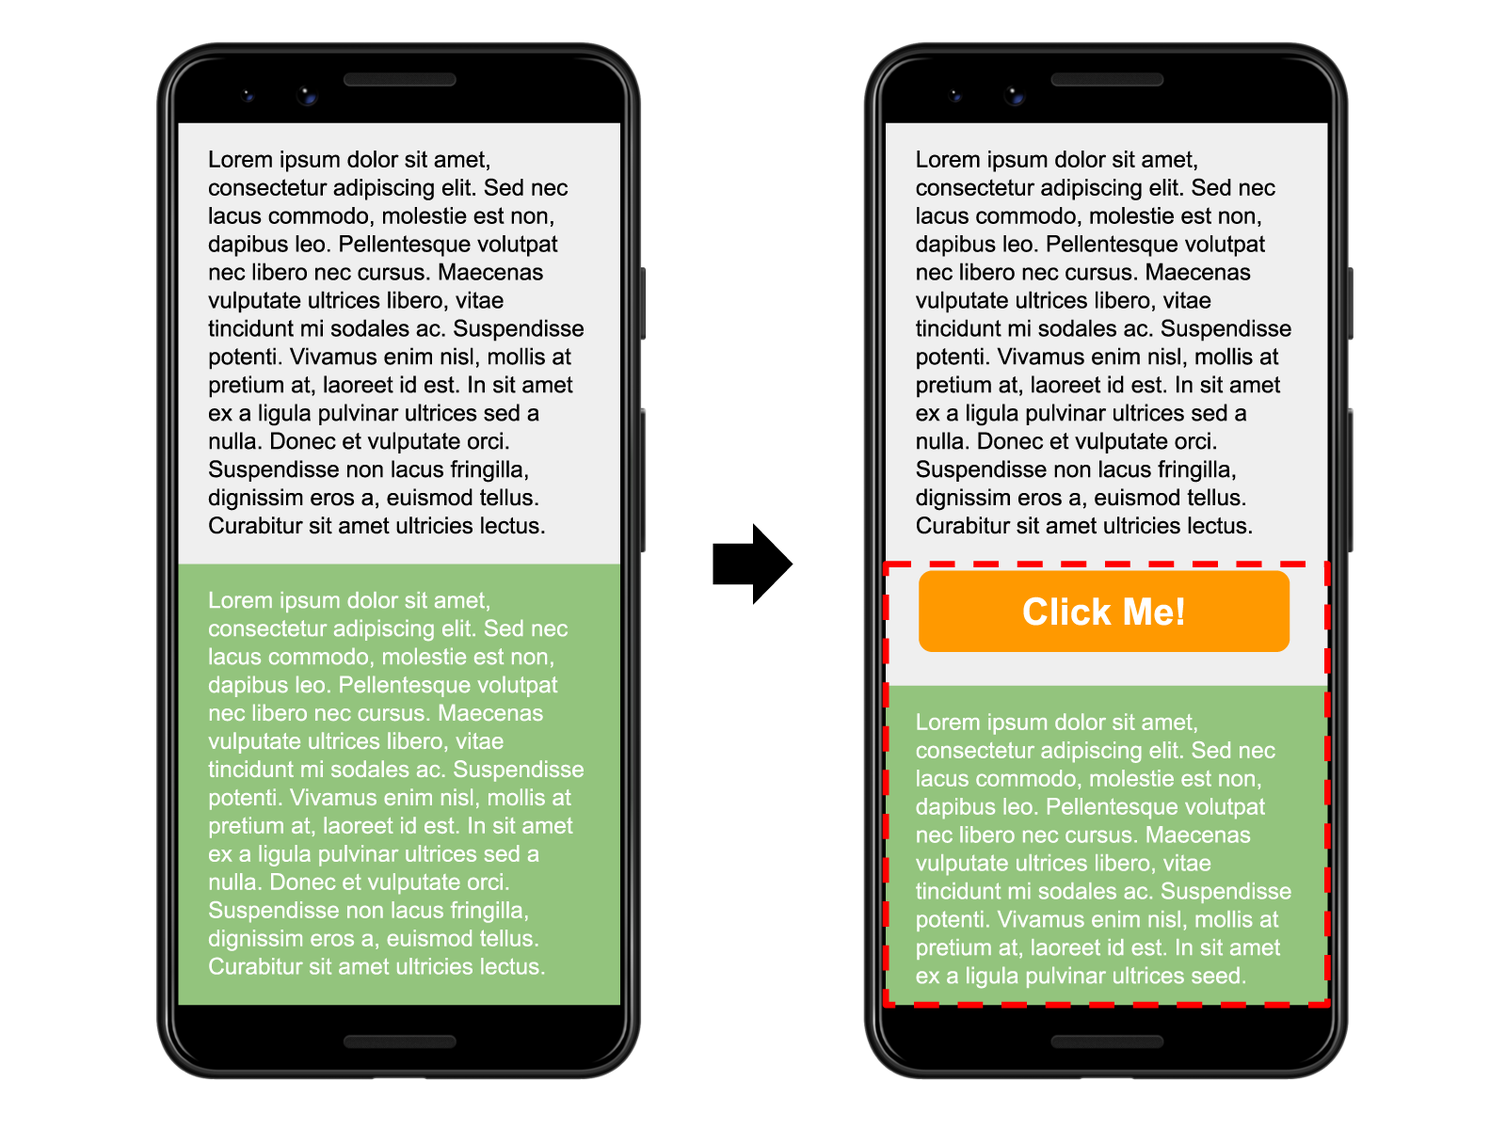
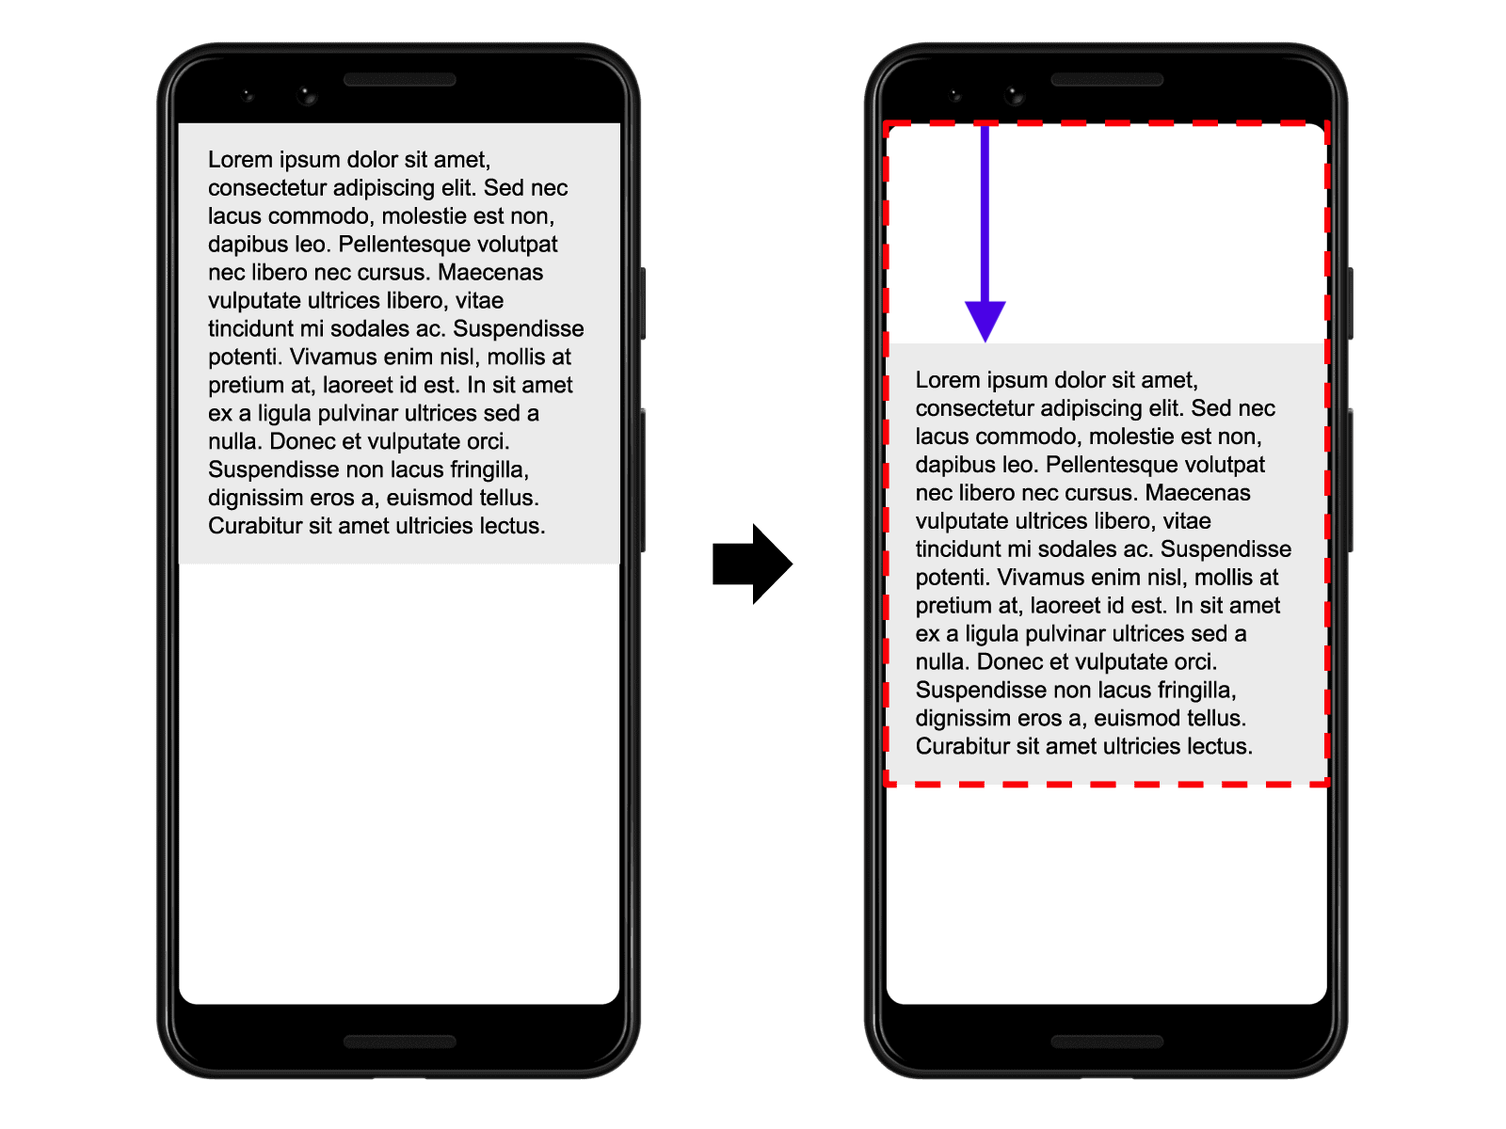
Layout Instability API update (#1504)

Changed region(s): [[0.5625, 0.0925, 0.9062, 0.8942], [0.0938, 0.4933, 0.4375, 0.8942], [0.875, 0.3392, 0.9062, 0.4008]]

diff --git a/src/site/content/en/blog/layout-instability-api/index.md b/src/site/content/en/blog/layout-instability-api/index.md
@@ -3,8 +3,9 @@ title: The Layout Instability API
 subhead: Detect unexpected layout shifts in JavaScript.
 authors:
   - philipwalton
+  - mihajlija
 date: 2019-06-11
-updated: 2019-08-29
+updated: 2019-09-16
 hero: hero.jpg
 # You can adjust the position of your hero image with this property.
 # Values: top | bottom | center (default)
@@ -19,15 +20,9 @@ tags:
   - origin-trials
 ---
 
-Have you ever been reading an article online when something suddenly changes on
-the page? Without warning, the text moves, and you've lost your place.
+Have you ever been reading an article online when something suddenly changes on the page? Without warning, the text moves, and you've lost your place. Or even worse: you're about to tap a link or a button, but in the instant before your finger lands—BOOM—the link moves, and you end up clicking something else!
 
-Or even worse: you're about to tap a link or a button, but in the instant
-before your finger lands&mdash;**BOOM**&mdash;the link moves, and you end up
-clicking something else!
-
-Most of the time these kinds of experiences are just a mild annoyance or
-frustration. But in some cases, they can actually cause real damage or harm.
+Most of the time these kinds of experiences are just annoying, but in some cases, they can cause real damage.
 
 <figure class="w-figure w-figure--center">
   <video autoplay controls loop muted
@@ -52,105 +47,88 @@ existing content. The culprit might be an image or video with unknown
 dimensions, a font that renders larger or smaller than its fallback, or a
 third-party ad or widget that dynamically resizes itself.
 
-What makes this issue even more problematic is that how a site functions in
-development is often quite different from how users experience it in
-production: personalized or third-party content often doesn't behave the same
-in development as it does in production, test images are often already in the
-developer's browser cache, and API calls that run locally are often so fast
-that the delay isn't noticeable.
+What makes this issue even more problematic is that how a site functions in development is often quite different from how users experience it. Personalized or third-party content often doesn't behave the same in development as it does in production, test images are often already in the developer's browser cache, and API calls that run locally are often so fast that the delay isn't noticeable.
 
-The first step toward properly solving this problem is to give developers the
-tools to measure it and understand how often it's occurring for real users. The
-[Layout Instability API](https://github.com/WICG/layout-instability), currently
-being incubated in the [WICG](https://www.w3.org/community/wicg/), aims to
-address this.
+The first step toward properly solving this problem is to give developers the tools to measure it and understand how often it's occurring for real users. They can then identify the causes and improve the user experience. The [Layout Instability API](https://github.com/WICG/layout-instability), currently being incubated in the [WICG](https://www.w3.org/community/wicg/), aims to address this.
 
 ## How is layout instability determined?
 
-Layout Instability is determined by calculating a _layout shift_ score every
-time the browser renders a new frame. Developers and analytics providers can
-then monitor these scores in the wild, identify the culprits, and improve the
-experience for their users.
+An element is labeled as unstable if it is visible in the viewport and its start position (for example, its top and left position in the default [writing mode](https://developer.mozilla.org/en-US/docs/Web/CSS/writing-mode)) changes between two frames.
+
+Layout shifts only occur when *existing elements* change their *start position*. If a new element is added to the DOM or an existing element changes size, it doesn't count as a layout shift—as long as the change doesn't cause other visible elements to change their start position.
+
+Layout instability is determined by calculating a _layout shift_ score every time the browser renders a new frame. A frame that's rendered without any unexpected layout shifts has a layout shift score of 0.
 
 ### Layout shift defined
 
-For each element that's visible in the viewport, if the element's block-start
-and inline-start positions (e.g., its top and left position in the default
-[writing mode](https://developer.mozilla.org/en-US/docs/Web/CSS/writing-mode))
-relative to its [containing
-element](https://www.w3.org/TR/CSS2/visudet.html#containing-block-details) has
-changed between the frame currently being rendered and the frame that was
-previously rendered, the element is identified as unstable.
+To calculate the layout shift score, the browser looks at the viewport size and the movement of unstable elements in the viewport between two rendered frames. The layout shift score is a product of two measures of that movement: the impact fraction and the distance fraction.
 
-The union of the visible areas of all unstable elements for the previous frame
-_and_ the current frame&mdash;as a fraction of the total area of the
-viewport&mdash;is the **layout shift score** for the current frame.
+`impact fraction x distance fraction = layout shift score`
 
-Here are a few examples of how the layout shift score is calculated:
+The [impact fraction](https://github.com/WICG/layout-instability#Impact-Fraction) measures how unstable elements impact the viewport area between two frames. 
 
-![Layout shift example with one unstable element](layout-shift-1.png)
+The union of the visible areas of all unstable elements for the previous frame *and* the current frame—as a fraction of the total area of the viewport—is the impact fraction for the current frame.
+
+![Impact fraction example with one unstable element](layout-shift-1.png)
 
 In the image above there's an element that takes up half of the viewport in one
 frame. Then, in the next frame, the element shifts down by 25% of the viewport
 height. The red, dotted rectangle indicates the union of the element's visible
 area in both frames, which, in this case, is 75% of the total viewport, so its
-layout shift score is 0.75.
+impact fraction is 0.75.
+
+The other part of the layout shift score equation measures the distance that unstable elements have moved on the horizontal or vertical axis (whichever is greater), relative to the viewport. The [distance fraction](https://github.com/WICG/layout-instability#Distance-Fraction) is the greatest distance any unstable element has moved in the frame. 
+
+![Distance fraction example with one unstable element](layout-shift-2.png)
+
+In the example above, the unstable element has moved down by 25% of the viewport height, which makes the distance fraction 0.25.
+
+The layout shift score in this example is 0.75 x 0.25 = 0.1875.
+
+{% Aside %}
+Initially, the layout shift score was calculated based only on impact fraction. The distance fraction is introduced to avoid overly penalizing cases where large elements shift by small distances.
+{% endAside %}
 
 The next example illustrates how adding content to an existing element affects
 the layout shift score:
 
 ![Layout shift example with stable and unstable elements and viewport
-clipping](layout-shift-2.png)
+clipping](layout-shift-3.png)
 
-Here the "Click Me!" button is appended to the bottom of the gray box with
-black text, which pushes the green box with white text down (and partially out
-of the viewport).
+The "Click Me!" button is appended to the bottom of the gray box with black text, which pushes the green box with white text down (and partially out of the viewport).
 
-In this example, the gray box changes size, but its start position does not
-change so it's not an unstable element. The start position of the green box,
-however, does change, but since it's been moved partially out of the viewport,
-the invisible area is not considered when calculating the layout shift score.
-The union of the visible areas for the green box in both frames is the same as
-the area of the green box in the first frame, which is 50%, and its layout
-shift score is therefore 0.5 (as illustrated by the red, dotted rectangle).
+In this example, the gray box changes size, but its start position does not change so it's not an unstable element. 
+
+The "Click Me!" button was not previously in the DOM, so its start position doesn't change either.
+
+The start position of the green box, however, does change, but since it's been moved partially out of the viewport, the invisible area is not considered when calculating the impact fraction. The union of the visible areas for the green box in both frames (illustrated by the red, dotted rectangle) is the same as the area of the green box in the first frame—50% of the viewport. The impact fraction is 0.5.
+
+The distance fraction is illustrated with the purple arrow. The green box has moved down by about 14% of the viewport so the distance fraction is 0.14. 
+
+The layout shift score is 0.5 x 0.14 = 0.07.
 
 This last example illustrates multiple unstable elements:
 
 ![Layout shift example with multiple stable and unstable
-elements](layout-shift-3.png)
+elements](layout-shift-4.png)
 
-In the first frame above we have the initial results of an API request for
-animals, sorted in alphabetical order. In the second frame we have some more
-results that get added to the sorted list.
+In the first frame above there are four results of an API request for animals, sorted in alphabetical order. In the second frame, more results are added to the sorted list.
 
-The first item in the list ("Cat") does not change its start position between
-frames, so it's stable. Similarly, the new items added to the list were not
-previously in the DOM, so their start positions don't change either. But the
-items labelled "Dog", "Horse", and "Zebra" all shift their start positions, so
-they're unstable elements.
+The first item in the list ("Cat") does not change its start position between frames, so it's stable. Similarly, the new items added to the list were not previously in the DOM, so their start positions don't change either. But the items labelled "Dog", "Horse", and "Zebra" all shift their start positions, making them unstable elements.
 
-Again, the red, dotted rectangles represent the union of these three unstable
-elements' before and after areas, which in this case represents around 38% of
-the viewport's area (a layout shift score of 0.38).
+Again, the red, dotted rectangles represent the union of these three unstable elements' before and after areas, which in this case is around 38% of the viewport's area (impact fraction of 0.38).
 
-A key point that's hopefully clear from these examples is that layout shifts
-only occur when _existing_ elements change their _start position_. If a new
-element is added to the DOM or an existing element changes size, it doesn't
-count as a layout shift&mdash;**as long as the change doesn't cause other visible
-elements to change their start position**.
+The arrows represent the distances that unstable elements have moved from their starting positions. The "Zebra" element, represented by the blue arrow, has moved the most, by about 30% of the viewport height. That makes the distance fraction in this example 0.3.
 
-### Expected vs unexpected layout shifts
+The layout shift score is 0.38 x 0.3 = 0.1172.
 
-Not all layout shifts are bad. In fact, many dynamic web applications will
-frequently change the start position of elements on the page.
+### Expected vs. unexpected layout shifts
+
+Not all layout shifts are bad. In fact, many dynamic web applications frequently change the start position of elements on the page.
 
 #### User-initiated layout shifts
 
-A layout shift is only bad if the user isn't expecting it. On the other hand,
-layout shifts that occur in response to user interactions (e.g., clicking a
-link, pressing a button, typing in a search box, etc.) are generally fine, as
-long as the shift occurs close enough to the interaction that the relationship
-is clear to the user.
+A layout shift is only bad if the user isn't expecting it. On the other hand, layout shifts that occur in response to user interactions (clicking a link, pressing a button, typing in a search box and similar) are generally fine, as long as the shift occurs close enough to the interaction that the relationship is clear to the user.
 
 For example, if a user interaction triggers a network request that may take a
 while to complete, it's best to create some space right away and show a loading
@@ -161,68 +139,34 @@ waiting&mdash;something that could move out from under them.
 
 #### Animations and transitions
 
-Animations and transitions, when done well, are a great way to update content
-on the page without surprising the user. Content that shifts abruptly and
-unexpectedly on the page almost always creates a bad user experience. But
-content that moves gradually and naturally from one position to the next can
-often help the user better understand what's going on, and guide them between
-state changes.
+Animations and transitions, when done well, are a great way to update content on the page without surprising the user. Content that shifts abruptly and unexpectedly on the page almost always creates a bad user experience. But content that moves gradually and naturally from one position to the next can often help the user better understand what's going on, and guide them between state changes.
 
-To ensure that effective uses of animations and transitions do not produce
-negative layout shift scores in the Layout Instability API, elements whose
-start position has changed by less than three pixels since the previous frame
-are not considered unstable elements.
+CSS [`transform`](https://developer.mozilla.org/en-US/docs/Web/CSS/transform) property allows you to animate elements without triggering layout changes:
+
+* Instead of changing `height` and `width` properties, use `transform: scale()`. 
+
+* To move elements around, avoid changing `top`, `right`, `bottom`, or `left` properties and use `transform: translate()` instead.
 
 ### A cumulative layout shift score
 
-Layout shift scores are calculated per-frame, and they are reported regardless
-of whether the shift was triggered as a result of user input.
+Layout shift scores are calculated per-frame, and they are reported regardless of whether the shift was triggered as a result of user input. But users can experience layout instability throughout their entire browser session, and as mentioned above, not all layout shifts are perceived negatively.
 
-But users can experience layout instability throughout their entire browser
-session, and as I mentioned above, not all layout shifts are perceived
-negatively.
+The cumulative layout shift (CLS) score can be determined by calculating the sum of all "unexpected" layout shift scores from page load until the page's [lifecycle state](https://developers.google.com/web/updates/2018/07/page-lifecycle-api) changes to hidden. Chrome has heuristics to determine which layout shifts are "unexpected" and only those should count towards the cumulative layout shift score. For example, shifts that occur within 500 milliseconds of a discrete user interaction (for example, clicks, taps, and key presses) shouldn't count towards the CLS. 
 
-The cumulative layout shift (CLS) score is determined by calculating the sum of
-all unexpected layout shift scores from page load until the page's [lifecycle
-state](https://developers.google.com/web/updates/2018/07/page-lifecycle-api)
-changes to hidden. In the current Chrome implementation, "unexpected layout
-shifts" are those that don't occur within 500 milliseconds of a discrete user
-interaction (i.e., click, taps, and key presses, but not scrolls or mouse
-moves)
-
-A page that has no unexpected layout shifts will have a cumulative layout shift
-score of 0. Most typical content sites and web applications should strive for a
-score of 0 to provide the best experience for their users.
-
-In addition, the cumulative layout shift score has been added as an
-experimental metric in the [Chrome User Experience
-Report](https://developers.google.com/web/tools/chrome-user-experience-report/)
-(CrUX), a dataset that captures how real-world Chrome users experience popular
-destinations on the web. With the addition of CLS as of the May 2019 release,
-developers can get a better understanding of how users experience layout
-instability on their sites, on their competitors' sites, and on the web as a
-whole.
+A page that has no unexpected layout shifts will have a cumulative layout shift score of 0. Most typical content sites and web applications should strive for a score of 0 to provide the best experience for their users.
 
 {% Aside %}
-  **Important:** while most sites should strive for a CLS score of 0, it's
-  certainly possible that some sites employ layout shifts deliberately  (for
-  example, in multimedia presentations, progressive visualisations, slideshows,
-  etc.).
-
-  This is perfectly fine. CLS scores are intended to help developers who may
-  not be aware of the problems caused by unexpected layout shifts; they're not
-  intended to suggest that sites that deliberately shift the layout are
-  necessarily problematic.
+Sites with, for example, multimedia presentations, progressive visualisations, or slideshows can have higher CLS scores and that is perfectly fine. CLS scores are intended to help developers who may not be aware of the problems that are causing unexpected layout shifts; they're not intended to suggest that sites that deliberately shift the layout are necessarily problematic. 
 {% endAside %}
 
 ## How to use the Layout Instability API
 
 The Layout Instability API is available in Chrome 74+ with the experimental web
 platform features flag enabled
-(`chrome://flags/#enable-experimental-web-platform-features`) or by through the
+(`chrome://flags/#enable-experimental-web-platform-features`) or through the
 [Layout Instability Origin
 Trial](https://developers.chrome.com/origintrials/#/view_trial/1215971899390033921),
-which will be available until Sept. 3, 2019.
+which is be available until Sept. 3, 2019.
 
 Similar to other performance APIs, Layout Instability can be observed via the
 `PerformanceObserver` interface, where you can subscribe to entries of type
@@ -241,10 +185,7 @@ observer.observe({type: 'layout-shift', buffered: true});
 ```
 
 {% Aside %}
-  **Note:** The
-  [`buffered`](https://w3c.github.io/performance-timeline/#dom-performanceobserverinit-buffered)
-  flag in the above example (supported in Chrome 77+) gives you access to entries
-  that may have occurred prior to creating the `PerformanceObserver`.
+The [`buffered`](https://w3c.github.io/performance-timeline/#dom-performanceobserverinit-buffered) flag in the above example (supported in Chrome 77+) gives you access to entries that may have occurred prior to creating the `PerformanceObserver`.
 {% endAside %}
 
 {% Aside 'caution' %}
@@ -258,11 +199,7 @@ observer.observe({type: 'layout-shift', buffered: true});
   works in Chrome 74+.
 {% endAside %}
 
-If you want to calculate the cumulative layout shift score for your pages and
-track them in your analytics back end, you can declare a variable that stores
-the current cumulative layout shift score, and then increment it any time a new
-layout shift is detected. You'll typically want to record scores from the
-initial page load until the page's lifecycle state changes to hidden:
+To calculate the cumulative layout shift score for your pages and track them in your analytics back end, declare a variable that stores the current cumulative layout shift score, and then increment it any time a new layout shift is detected. For best results, record scores from the initial page load until the page's lifecycle state changes to `hidden`:
 
 ```js
 // Stores the current layout shift score for the page.
@@ -294,20 +231,21 @@ document.addEventListener('visibilitychange', () => {
   }
 });
 ```
+{% Aside %}
+The cumulative layout shift score has also been added as an experimental metric in the [Chrome User Experience Report](https://developers.google.com/web/tools/chrome-user-experience-report/) (CrUX), a dataset that captures how real-world Chrome users experience popular destinations on the web. With the addition of CLS as of the May 2019 release, developers can get a better understanding of how users experience layout instability on their sites, on their competitors' sites, and on the web as a whole.
+{% endAside %}
 
 ## How to avoid unexpected layout shifts
 
 For most websites, you can avoid all unexpected layout shifts by sticking to a
 few guiding principles:
 
-
 <ul>
   <li>
     <strong>Always include size attributes on your images and video elements,
     or otherwise reserve the required space with something like
     <a href="https://css-tricks.com/aspect-ratio-boxes/">CSS aspect ratio
-    boxes</a>.</strong><br>
-    This approach ensures that the browser can allocate the correct amount of
+    boxes</a>.</strong> This approach ensures that the browser can allocate the correct amount of
     space in the document while the image is loading. Note that you can also
     use the
     <a href="https://github.com/w3c/webappsec-feature-policy/blob/master/policies/unsized-media.md">
@@ -318,14 +256,10 @@ few guiding principles:
   </li>
   <li>
     <strong>Never insert content above existing content, except in response to
-    a user interaction.</strong><br>
-    This ensures any layout shifts that occur are expected.
+    a user interaction.</strong> This ensures any layout shifts that occur are expected.
   </li>
   <li>
-    <strong>When layout shifts are necessary, use transitions or animation to
-    provide context and continuity to the user.</strong><br>
-    This creates continuity from state to state that's easier for users to
-    follow.
+    <strong>Prefer transform animations to animations of properties that trigger layout changes.</strong> Animate transitions in a way that provides context and continuity from state to state.
   </li>
 </ul>
 
@@ -346,15 +280,4 @@ You can give feedback by opening up an issue on the [Layout Instability Spec's
 GitHub repo](https://github.com/WICG/layout-instability), or by contributing to
 the discussion already happening there.
 
-Also, if your site is available in the CrUX dataset, you [can
-query](https://console.cloud.google.com/bigquery?p=chrome-ux-report&d=all&t=201905&page=table)
-to see how real Chrome users are experiencing the stability of your site's
-layout, and you can compare these results to the results you're seeing when
-testing your site locally. If the results you see in CrUX are unexpected, you
-can sign up for the [Layout Instability Origin
-Trial](https://developers.chrome.com/origintrials/#/view_trial/1215971899390033921)
-and monitor your user's experience via the JavaScript API.
-
-As I mentioned in the introduction of this post. The first step toward properly
-solving layout instability is to measure it and understand how often it occurs
-for real users.
+If your site is available in the CrUX dataset, you [can query](https://console.cloud.google.com/bigquery?p=chrome-ux-report&d=all&t=201905&page=table) to see how real Chrome users are experiencing the stability of your site's layout, and you can compare these results to the results you're seeing when testing your site locally. If the results you see in CrUX are unexpected, you can sign up for the [Layout Instability Origin Trial](https://developers.chrome.com/origintrials/#/view_trial/1215971899390033921) and monitor your user's experience via the JavaScript API.
